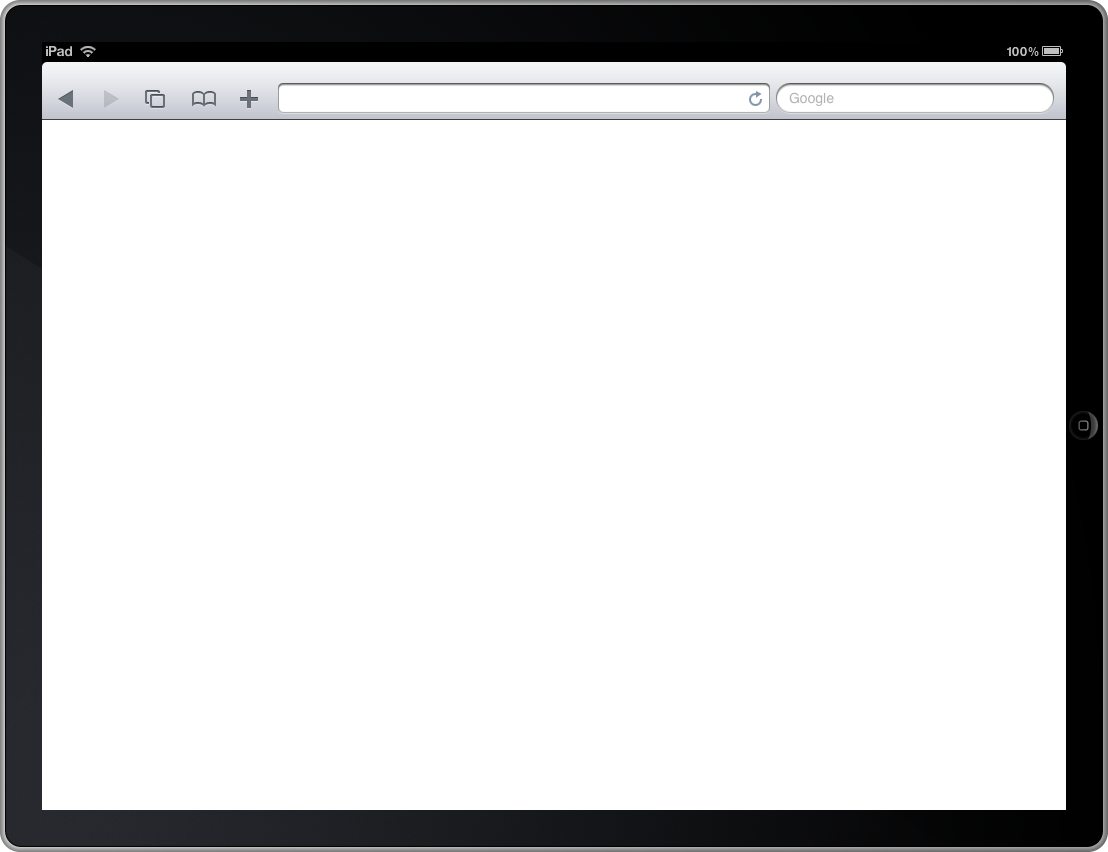
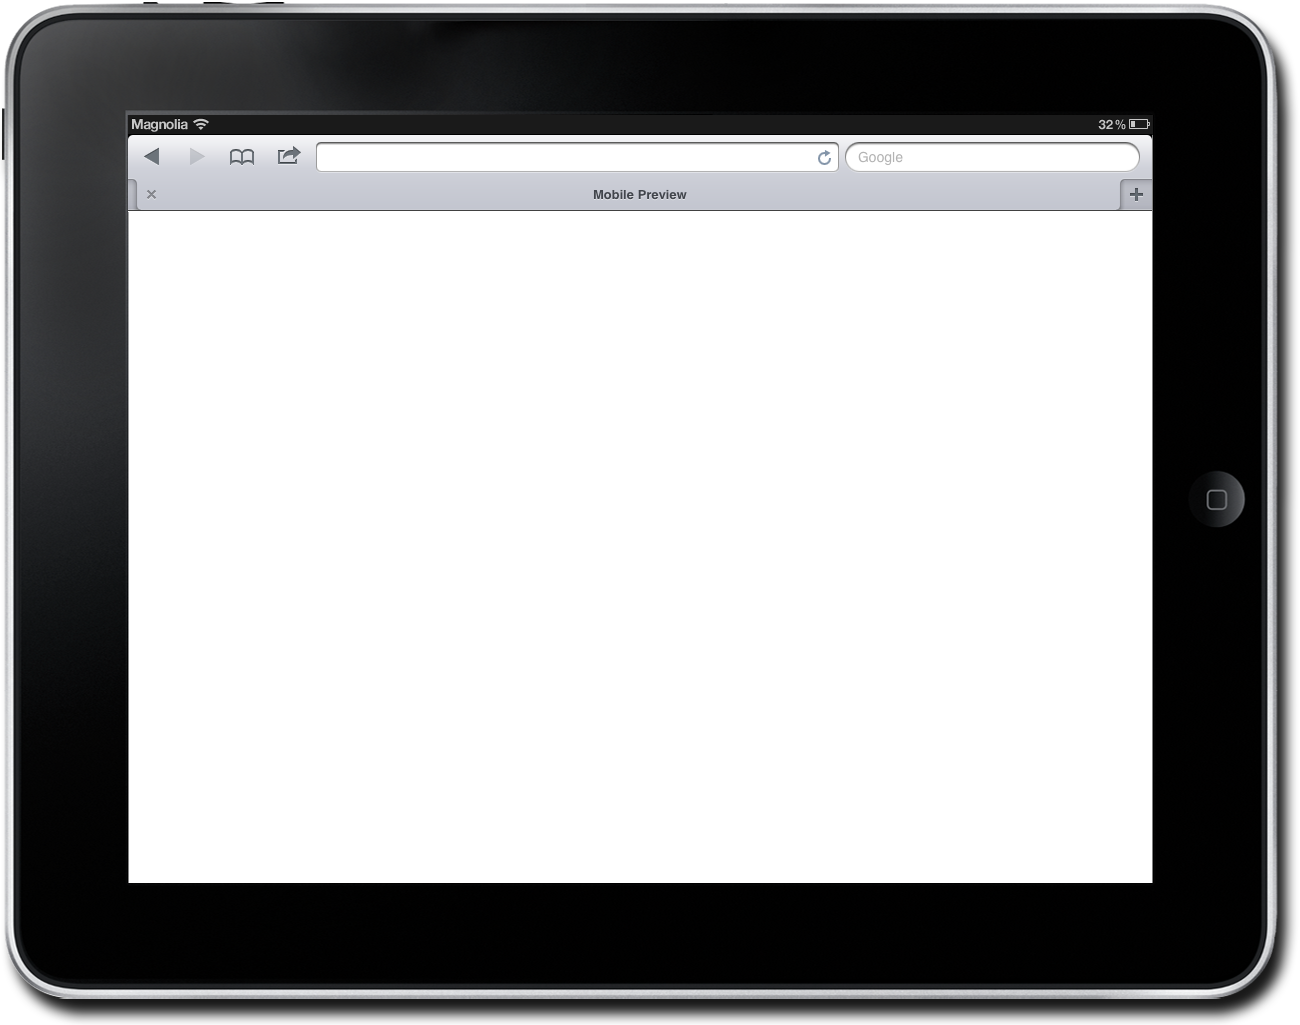
Mobile Preview: replaced tablet images to show iOS5 controls. The additional tab of Mobile Safari takes away some height/width available for the page rendering.
git-svn-id: file:///home/migrator/subversion-migration/svn-repo-copy/community/magnolia/trunk@54400 a15fbcf9-bee4-0310-bafe-d02d26ad3b5f

diff --git a/magnolia-templating-editor/src/main/resources/mgnl-resources/magnolia-templating-editor/css/editor.css b/magnolia-templating-editor/src/main/resources/mgnl-resources/magnolia-templating-editor/css/editor.css
@@ -370,30 +370,30 @@ div#site-info .mgnlPlaceHolder.component .gwt-Label {
 
 .mobilePreview.tabletLandscape {
   background: url(../img/preview/mobile/tablet/landscape.png) no-repeat;
-  width: 1108px;
-  height: 852px;
+  width: 1300px;
+  height: 1025px;
 }
 
 .mobilePreview.tabletLandscape .popupContent {
   position: absolute;
-  top: 120px;
-  left: 42px;
+  top: 211px;
+  left: 128px;
   width: 1024px;
-  height: 690px;
+  height: 672px;
 }
 
 .mobilePreview.tabletPortrait {
   background: url(../img/preview/mobile/tablet/portrait.png) no-repeat;
-  width: 852px;
-  height: 1108px;
+  width: 1020px;
+  height: 1300px;
 }
 
 .mobilePreview.tabletPortrait .popupContent {
   position: absolute;
-  top: 120px;
-  left: 42px;
-  height: 946px;
+  top: 224px;
+  left: 118px;
   width: 768px;
+  height: 928px;
 }
 
 .mobilePreview.smartphoneLandscape {
